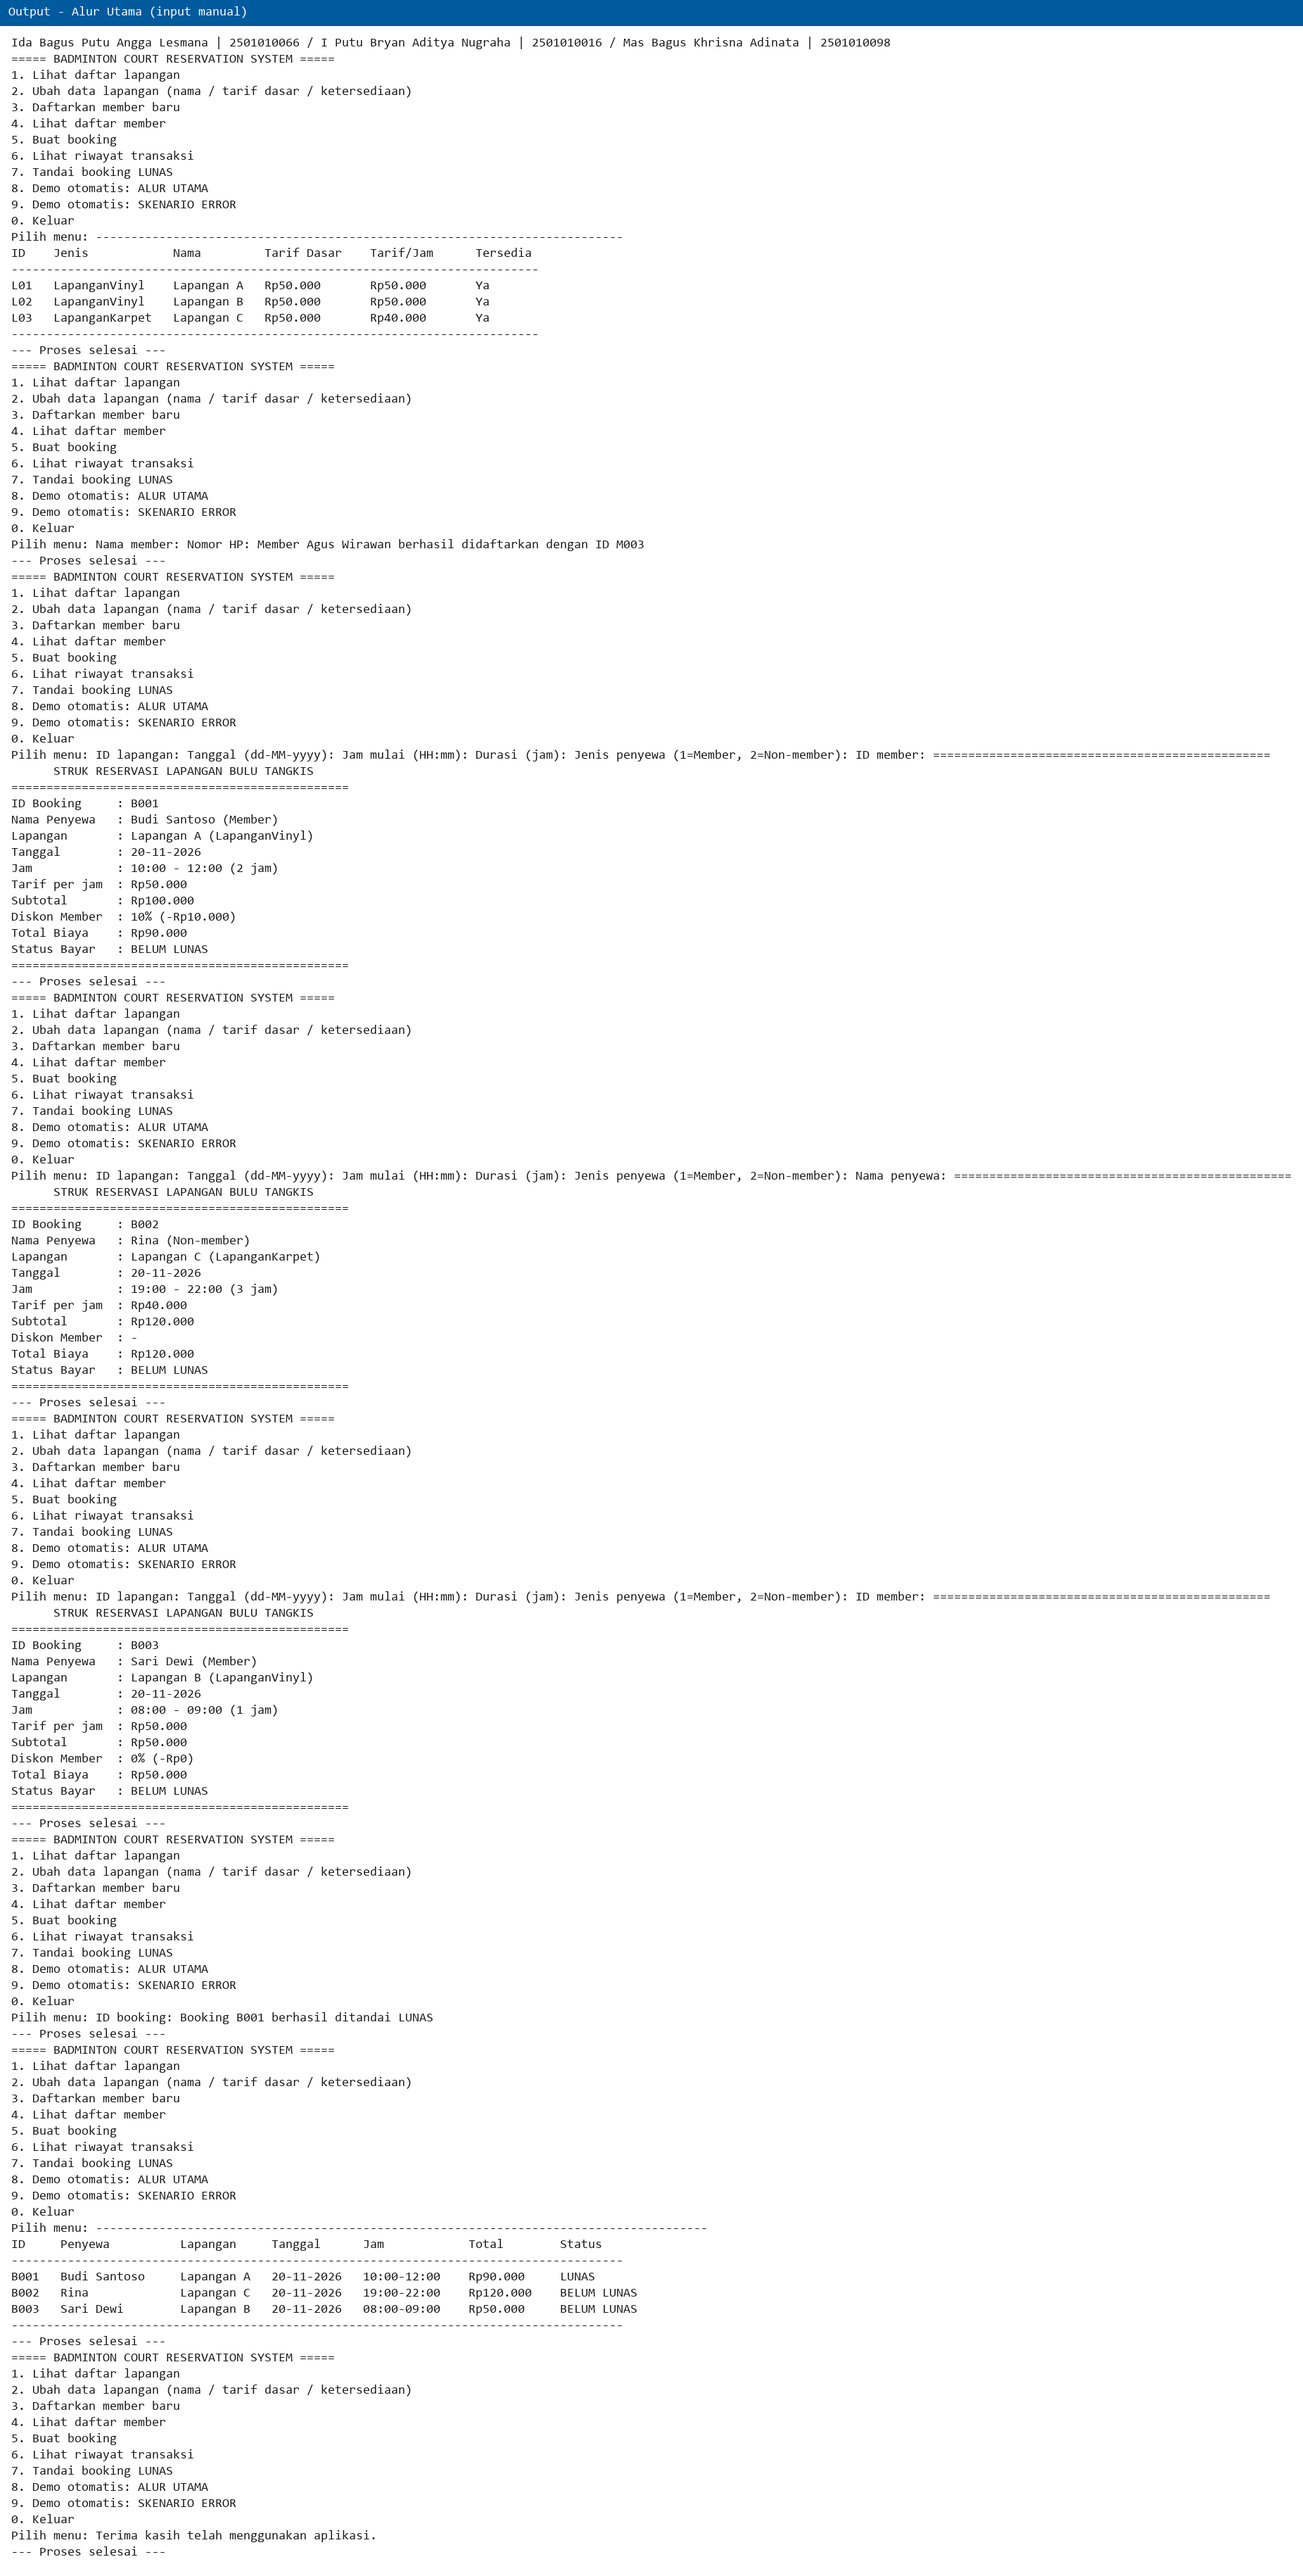
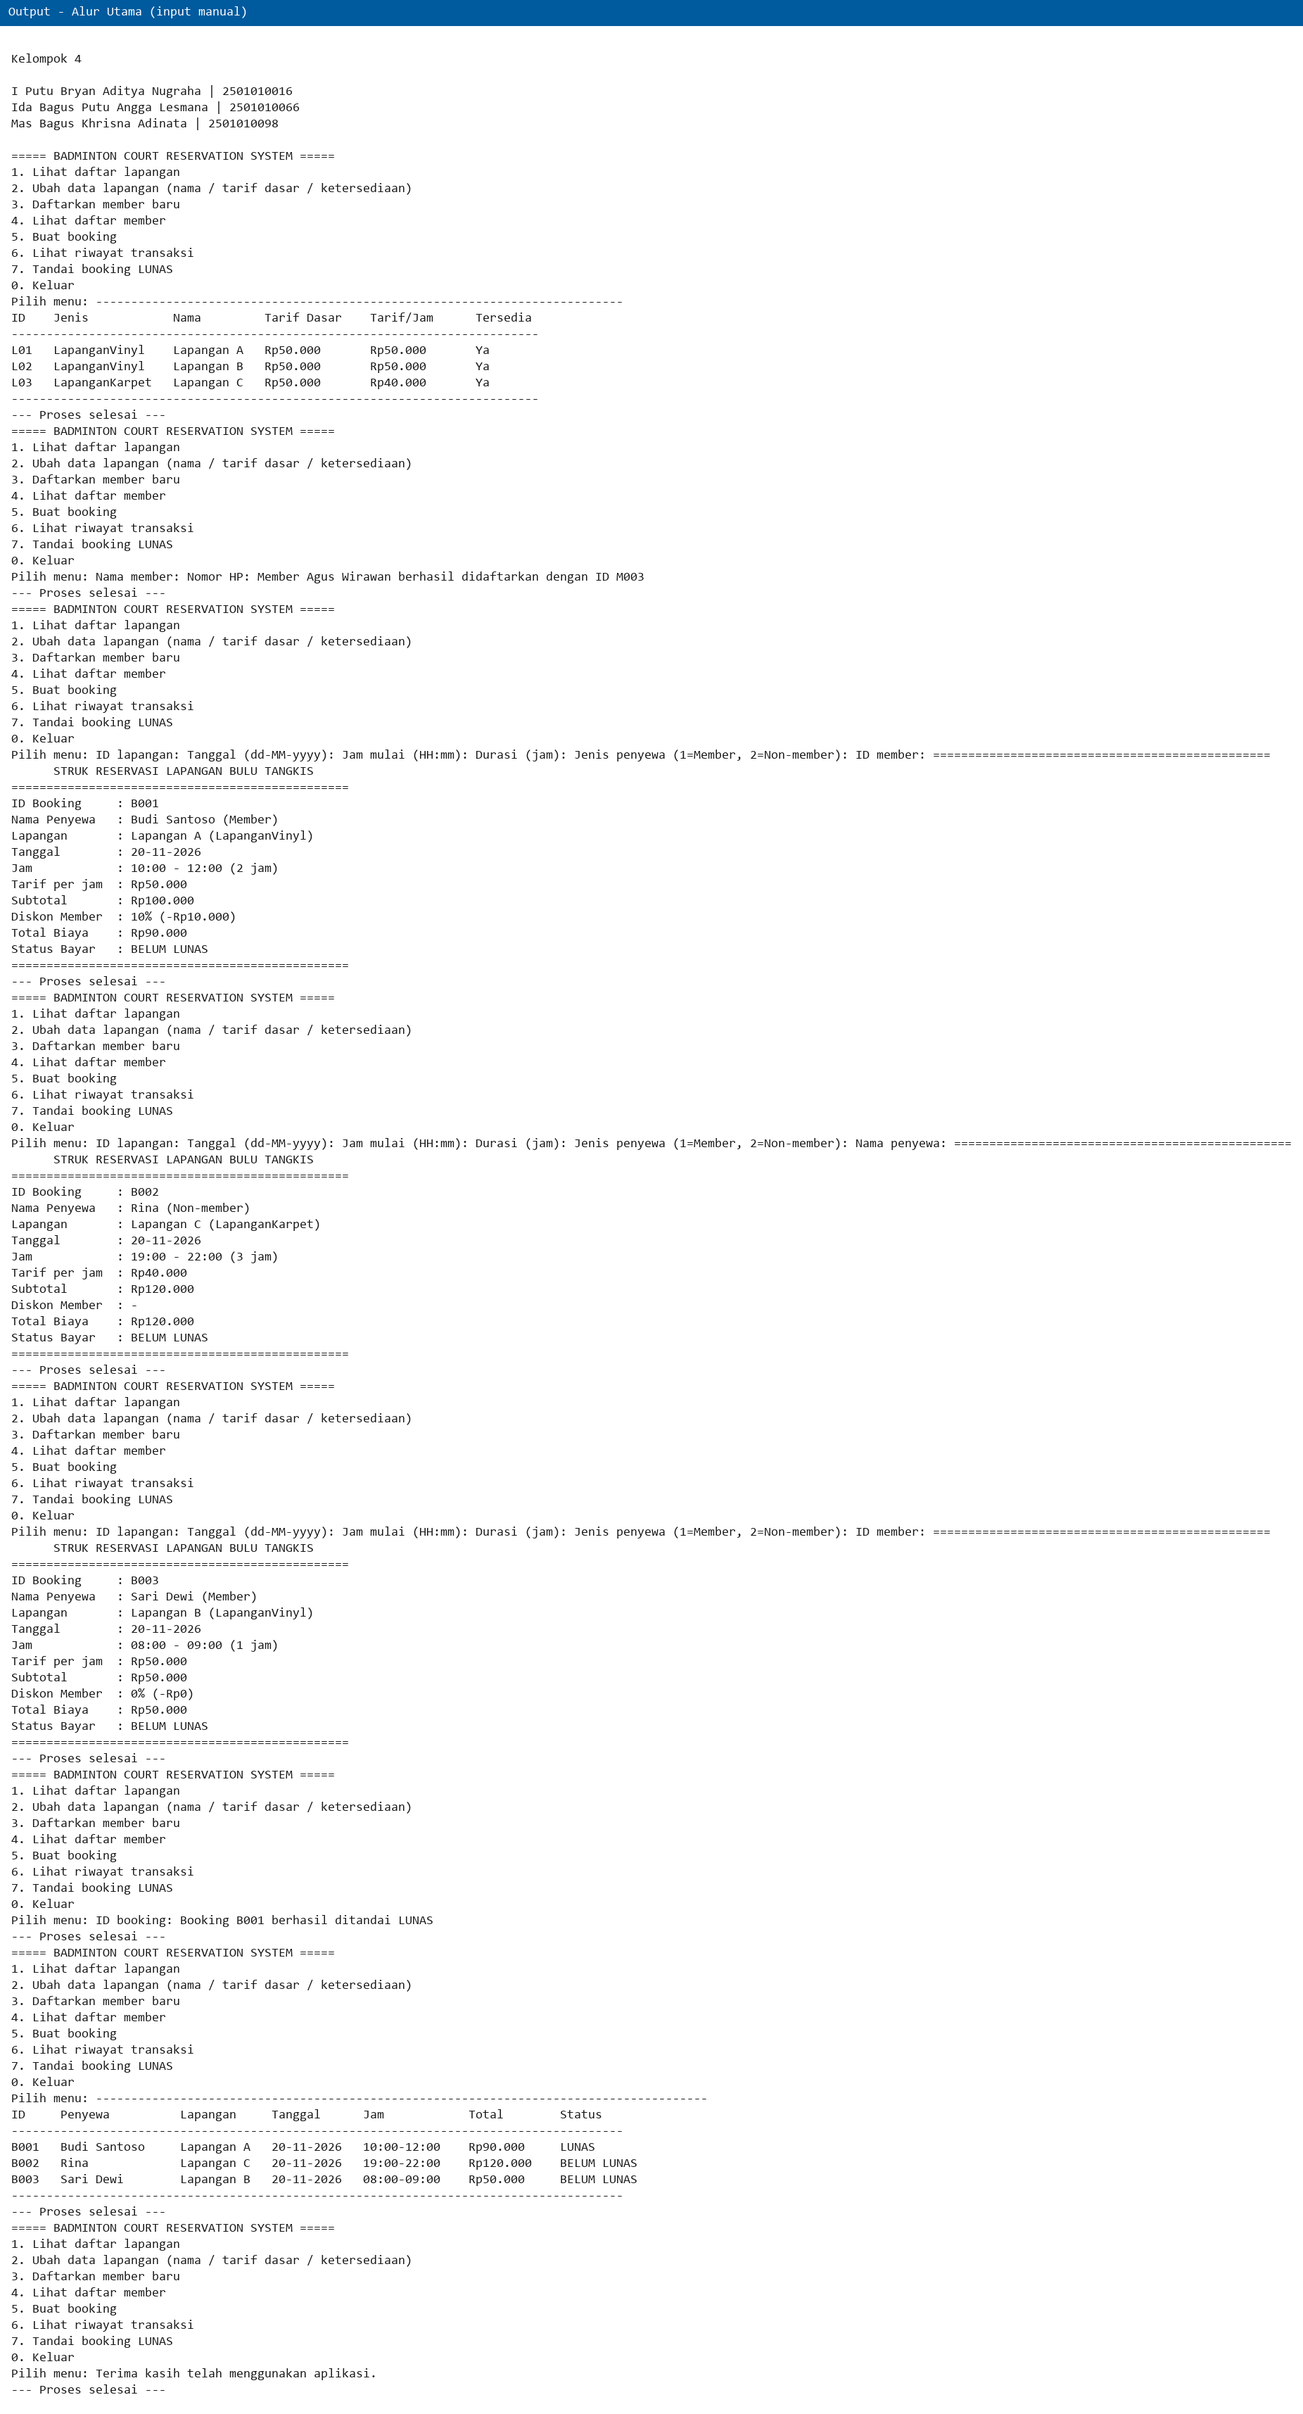
Hapus demo otomatis (menu 8 & 9) dan perbarui bukti output

diff --git a/src/app/Main.java b/src/app/Main.java
@@ -81,12 +81,6 @@ public class Main {
                         case "7":
                             tandaiLunas(scanner, manager);
                             break;
-                        case "8":
-                            demoAlurUtama(daftarLapangan, daftarMember, manager);
-                            break;
-                        case "9":
-                            demoSkenarioError(daftarLapangan, manager);
-                            break;
                         case "0":
                             jalan = false;
                             System.out.println("Terima kasih telah menggunakan aplikasi.");
@@ -123,8 +117,6 @@ public class Main {
         System.out.println("5. Buat booking");
         System.out.println("6. Lihat riwayat transaksi");
         System.out.println("7. Tandai booking LUNAS");
-        System.out.println("8. Demo otomatis: ALUR UTAMA");
-        System.out.println("9. Demo otomatis: SKENARIO ERROR");
         System.out.println("0. Keluar");
         System.out.print("Pilih menu: ");
     }
@@ -273,141 +265,6 @@ public class Main {
             }
         }
         System.out.println("Booking tidak ditemukan");
-    }
-
-    private static void demoAlurUtama(List<Lapangan> daftarLapangan,
-            List<Member> daftarMember, BookingManager manager) {
-        System.out.println("===== DEMO ALUR UTAMA (tanggal 20-11-2026) =====");
-        LocalDate tanggal = LocalDate.parse("20-11-2026", FORMAT_TANGGAL);
-
-        System.out.println("[LANGKAH 1] Daftar lapangan dan hitungTarif()");
-        lihatLapangan(daftarLapangan);
-
-        System.out.println("[LANGKAH 2] Daftarkan member baru");
-        try {
-            Member agus = new Member(idMemberBerikutnya(daftarMember), "Agus Wirawan", "081355512345");
-            daftarMember.add(agus);
-            System.out.println("Member " + agus.getNama() + " didaftarkan dengan ID " + agus.getId());
-        } catch (IllegalArgumentException e) {
-            System.out.println("Gagal daftar member: " + e.getMessage());
-        }
-
-        Booking bookingSatu = null;
-        System.out.println("[LANGKAH 3] Booking 1: Budi Santoso (M001), L01, 10:00, 2 jam");
-        try {
-            Member budi = cariMember(daftarMember, "M001");
-            bookingSatu = new Booking(idBookingBerikutnya(manager), budi.getNama(), tanggal,
-                    LocalTime.of(10, 0), 2, cariLapangan(daftarLapangan, "L01"), budi);
-            manager.tambahBooking(bookingSatu);
-            System.out.println(bookingSatu.cetakStruk());
-        } catch (Exception e) {
-            System.out.println("Booking 1 gagal: " + e.getMessage());
-        }
-
-        System.out.println("[LANGKAH 4] Booking 2: Rina (non-member), L03, 19:00, 3 jam");
-        try {
-            Booking bookingDua = new Booking(idBookingBerikutnya(manager), "Rina", tanggal,
-                    LocalTime.of(19, 0), 3, cariLapangan(daftarLapangan, "L03"), null);
-            manager.tambahBooking(bookingDua);
-            System.out.println(bookingDua.cetakStruk());
-        } catch (Exception e) {
-            System.out.println("Booking 2 gagal: " + e.getMessage());
-        }
-
-        System.out.println("[LANGKAH 5] Booking 3: Sari Dewi (M002, tidak aktif), L02, 08:00, 1 jam");
-        try {
-            Member sari = cariMember(daftarMember, "M002");
-            Booking bookingTiga = new Booking(idBookingBerikutnya(manager), sari.getNama(), tanggal,
-                    LocalTime.of(8, 0), 1, cariLapangan(daftarLapangan, "L02"), sari);
-            manager.tambahBooking(bookingTiga);
-            System.out.println(bookingTiga.cetakStruk());
-        } catch (Exception e) {
-            System.out.println("Booking 3 gagal: " + e.getMessage());
-        }
-
-        System.out.println("[LANGKAH 6] Tandai booking pertama LUNAS lalu tampilkan riwayat");
-        if (bookingSatu != null) {
-            bookingSatu.setStatusBayar("LUNAS");
-            System.out.println("Booking " + bookingSatu.getId() + " ditandai LUNAS");
-        }
-        lihatRiwayat(manager);
-    }
-
-    private static void demoSkenarioError(List<Lapangan> daftarLapangan, BookingManager manager) {
-        System.out.println("===== DEMO SKENARIO ERROR (tanggal 21-11-2026) =====");
-        LocalDate tanggal = LocalDate.parse("21-11-2026", FORMAT_TANGGAL);
-        Lapangan l01 = cariLapangan(daftarLapangan, "L01");
-
-        System.out.println("[KASUS 1] Siapkan booking dasar L01, 15:00, 2 jam");
-        try {
-            Booking dasar = new Booking(idBookingBerikutnya(manager), "Dasar", tanggal,
-                    LocalTime.of(15, 0), 2, l01, null);
-            manager.tambahBooking(dasar);
-            System.out.println("Booking dasar dibuat dengan ID " + dasar.getId());
-        } catch (Exception e) {
-            System.out.println("Booking dasar dilewati: " + e.getMessage());
-        }
-
-        System.out.println("[KASUS 2] Jadwal bentrok: L01, 16:00, 2 jam");
-        try {
-            Booking bentrok = new Booking(idBookingBerikutnya(manager), "Bentrok", tanggal,
-                    LocalTime.of(16, 0), 2, l01, null);
-            manager.tambahBooking(bentrok);
-            System.out.println("[KASUS 2] Tidak terdeteksi bentrok (tidak diharapkan)");
-        } catch (JadwalBentrokException e) {
-            System.out.println("[KASUS 2] Jadwal bentrok -> JadwalBentrokException: " + e.getMessage());
-        } catch (Exception e) {
-            System.out.println("[KASUS 2] Kesalahan lain: " + e.getMessage());
-        }
-
-        System.out.println("[KASUS 3] Bukan bentrok (batas waktu): L01, 17:00, 1 jam");
-        try {
-            Booking tepi = new Booking(idBookingBerikutnya(manager), "Tepi", tanggal,
-                    LocalTime.of(17, 0), 1, l01, null);
-            manager.tambahBooking(tepi);
-            System.out.println("[KASUS 3] Booking batas waktu berhasil, total "
-                    + rupiah(tepi.getTotalBiaya()));
-        } catch (Exception e) {
-            System.out.println("[KASUS 3] Gagal: " + e.getMessage());
-        }
-
-        System.out.println("[KASUS 4] Nomor HP tidak valid: 08123abc");
-        try {
-            new Member("M999", "Test", "08123abc");
-            System.out.println("[KASUS 4] Tidak terdeteksi (tidak diharapkan)");
-        } catch (IllegalArgumentException e) {
-            System.out.println("[KASUS 4] Nomor HP salah -> IllegalArgumentException: " + e.getMessage());
-        }
-
-        System.out.println("[KASUS 5] Input huruf pada durasi: \"dua\"");
-        try {
-            Integer.parseInt("dua");
-            System.out.println("[KASUS 5] Tidak terdeteksi (tidak diharapkan)");
-        } catch (NumberFormatException e) {
-            System.out.println("[KASUS 5] Durasi harus berupa angka -> NumberFormatException: "
-                    + e.getMessage());
-        }
-
-        System.out.println("[KASUS 6] Format jam salah: 25:99");
-        try {
-            LocalTime.parse("25:99");
-            System.out.println("[KASUS 6] Tidak terdeteksi (tidak diharapkan)");
-        } catch (DateTimeParseException e) {
-            System.out.println("[KASUS 6] Format jam harus HH:mm -> DateTimeParseException: "
-                    + e.getMessage());
-        }
-
-        System.out.println("[KASUS 7] Durasi di luar batas: 0 jam");
-        try {
-            new Booking(idBookingBerikutnya(manager), "Salah", tanggal,
-                    LocalTime.of(20, 0), 0, l01, null);
-            System.out.println("[KASUS 7] Tidak terdeteksi (tidak diharapkan)");
-        } catch (IllegalArgumentException e) {
-            System.out.println("[KASUS 7] Durasi di luar batas -> IllegalArgumentException: "
-                    + e.getMessage());
-        }
-
-        System.out.println("Semua skenario error berhasil ditangani, program tetap berjalan.");
     }
 
     private static Lapangan cariLapangan(List<Lapangan> daftarLapangan, String id) {
